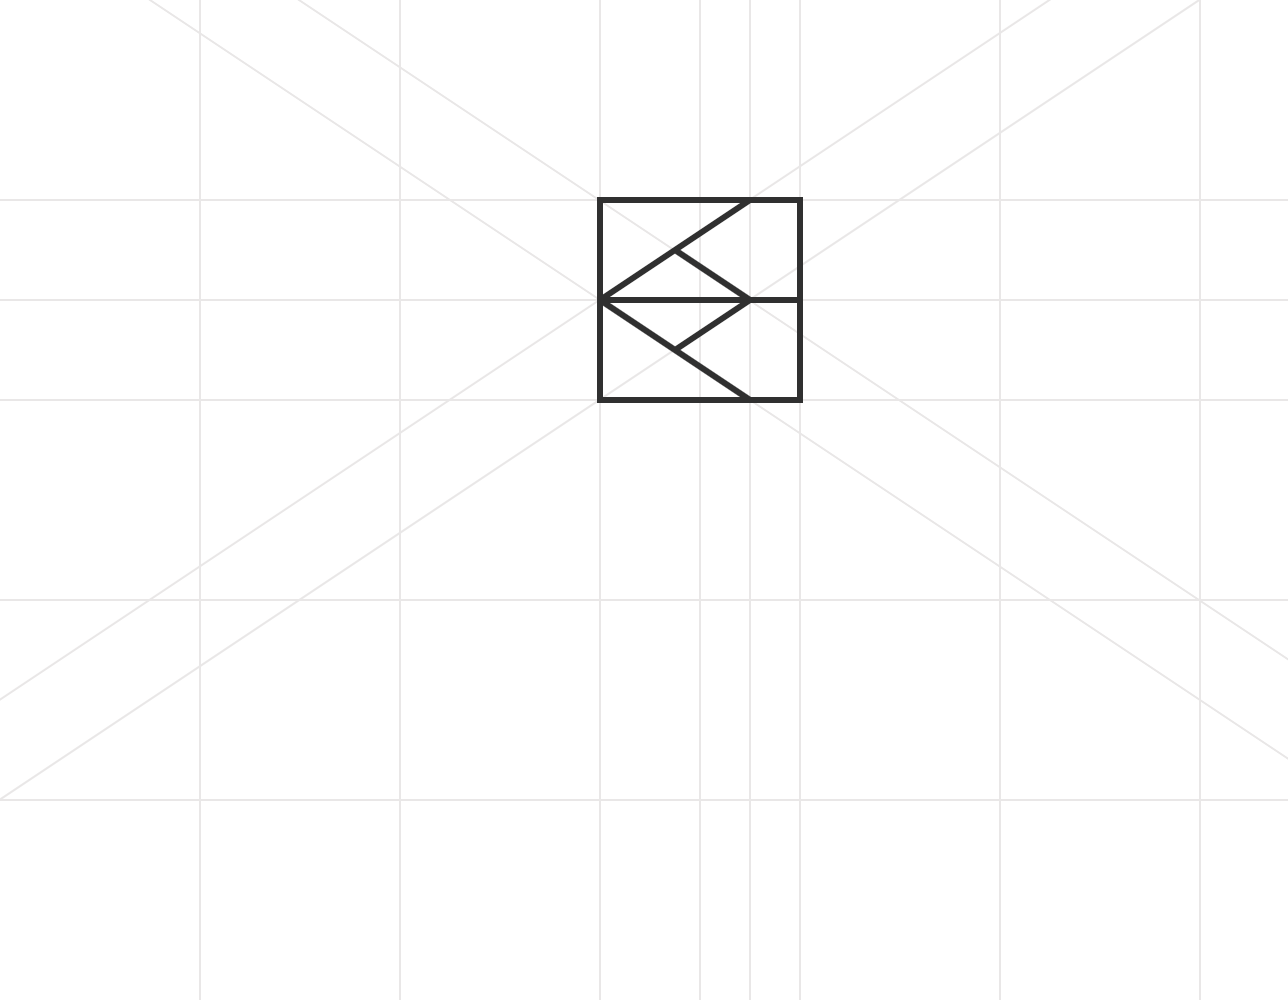
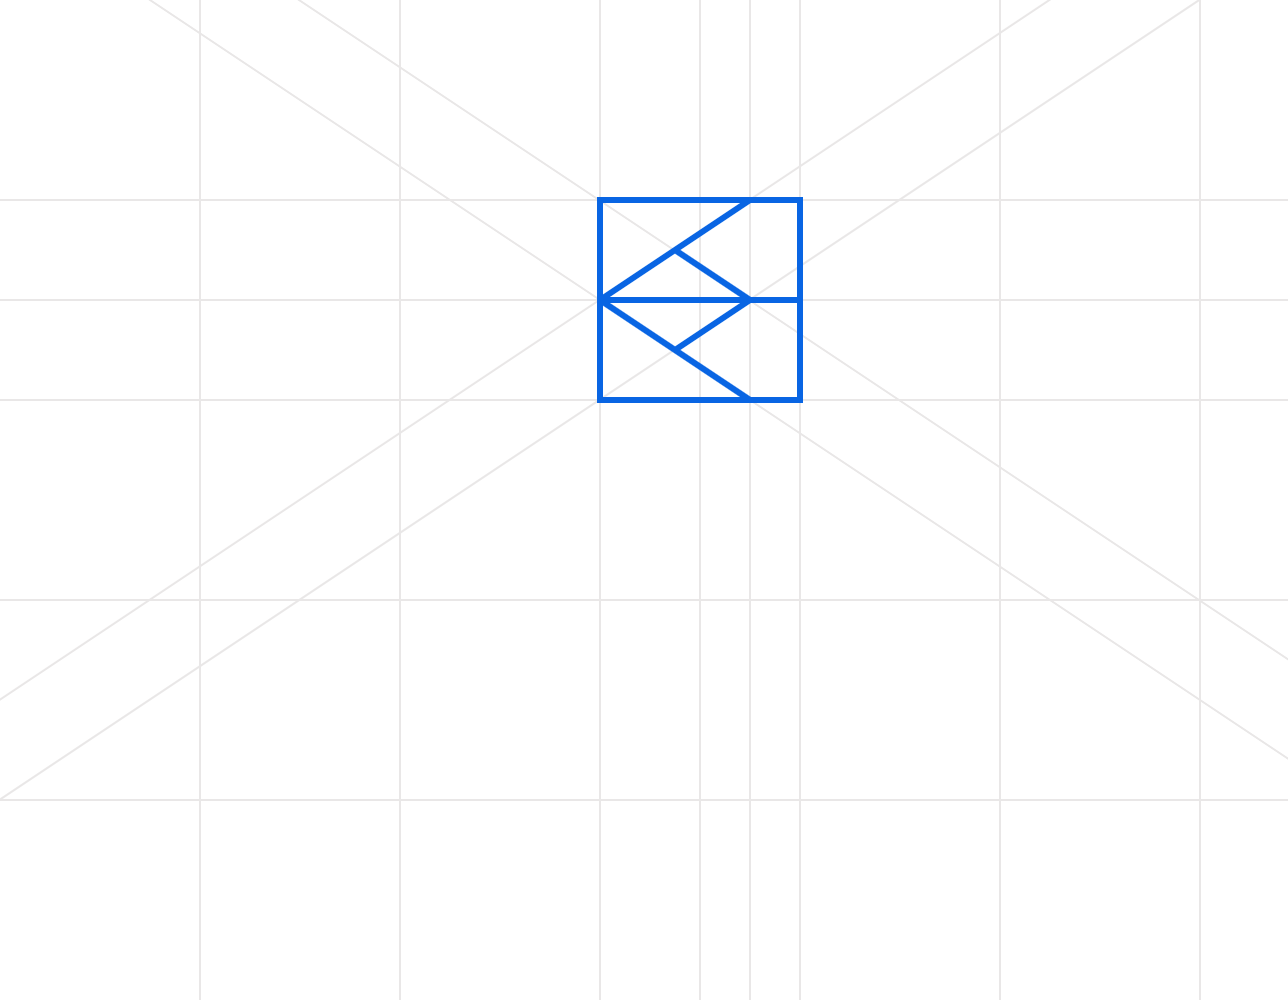
brand img changes

Changed region(s): [[0.4658, 0.186, 0.6211, 0.403]]

diff --git a/about.html b/about.html
@@ -214,26 +214,45 @@
                 <div id="recommenders">
                     <div class="row" id="optionThumbs">
                         <div class="column" id="thumb1">
-                          <img src="img/aboutMe/sabrina.jpg" alt="Quote 1" onclick="showQuote('quote1', 'thumb1');">
+                            <img src="img/aboutMe/sanjana.jpg" alt="Quote 1" onclick="showQuote('quote1', 'thumb1');">
                         </div>
                         <div class="column" id="thumb2">
-                          <img src="img/aboutMe/brendan.jpg" alt="Quote 2" onclick="showQuote('quote2', 'thumb2');">
+                          <img src="img/aboutMe/sabrina.jpg" alt="Quote 2" onclick="showQuote('quote2', 'thumb2');">
                         </div>
                         <div class="column" id="thumb3">
-                            <img src="img/aboutMe/jingzhi.jpg" alt="Quote 3" onclick="showQuote('quote3', 'thumb3');">
-                          </div>
-                        <div class="column" id="thumb4">
-                            <img src="img/aboutMe/ivy.jpg" alt="Quote 4" onclick="showQuote('quote4', 'thumb4');">
+                          <img src="img/aboutMe/brendan.jpg" alt="Quote 3" onclick="showQuote('quote3', 'thumb3');">
                         </div>
+                        <div class="column" id="thumb4">
+                            <img src="img/aboutMe/jingzhi.jpg" alt="Quote 4" onclick="showQuote('quote4', 'thumb4');">
+                          </div>
                         <div class="column" id="thumb5">
-                            <img src="img/aboutMe/sia.jpg" alt="Quote 5" onclick="showQuote('quote5', 'thumb5');">
+                            <img src="img/aboutMe/ivy.jpg" alt="Quote 5" onclick="showQuote('quote5', 'thumb5');">
+                        </div>
+                        <div class="column" id="thumb6">
+                            <img src="img/aboutMe/sia.jpg" alt="Quote 6" onclick="showQuote('quote6', 'thumb6');">
                         </div>
                     </div>
                 </div>
                 
                 <div class="quoteContainer">
-
                     <div id="quote1" class="quoteCard">
+                        <img src="img/aboutMe/quote.svg" class="quoteIcon">
+                        <p>
+                            I have had the pleasure of working with Eddy for the past five months, during which he has proven to be an exceptional Design Manager. His leadership skills are evident in how effectively he has guided the team through complex design implementations, ensuring seamless communication across product managers, engineers, developers, stakeholders, and designers. Eddy’s ability to deliver high-fidelity designs, coupled with his knack for problem-solving, has been instrumental in driving our projects to success.
+                        </p>
+                        <p>
+                            Eddy’s dedication to his work, attention to detail, and ability to manage multiple tasks simultaneously have made him a reliable and valued team member. His collaborative approach fosters innovation and teamwork, creating a productive environment that benefits everyone involved. I highly recommend Eddy for any leadership role in design, as his consistent performance and leadership qualities have made a significant impact on our team.
+                        </p>
+                        <div class="whoSaid">
+                        <img src="img/aboutMe/sanjana.jpg">
+                        <div class="attributed">
+                            <p>Sanjana Pachipulusu</p>
+                            <p>UX Designer</p>
+                            <p>Teammate @ KeelWorks Foundation</p>
+                        </div>
+                        </div>
+                    </div>
+                    <div id="quote2" class="quoteCard">
                         <img src="img/aboutMe/quote.svg" class="quoteIcon">
                         <p>
                             It’s not often that I get to work with someone whose attention to detail is as remarkable as Eddy’s. His eagle-eyed vision significantly enhanced the intricacies and cohesiveness of the project he leads, which I have the pleasure of being part of. Eddy is not only exceptionally skilled at refining the finer points of design and team dynamics but also at approaching projects holistically, ensuring every element aligns with the overall vision. He excelled in leading design reviews, offering actionable feedback, and was always open to collaboration when facing challenges.
@@ -246,12 +265,12 @@
                         <div class="attributed">
                             <p>Sabrina Settle</p>
                             <p>UX Designer</p>
-                            <p>Teammate @ KeelWorks</p>
+                            <p>Teammate @ KeelWorks Foundation</p>
                         </div>
                         </div>
                     </div>
 
-                    <div id="quote2" class="quoteCard">
+                    <div id="quote3" class="quoteCard">
                         <img src="img/aboutMe/quote.svg" class="quoteIcon">
                         <p>Eddy was an exceptional design intern I had the privilege of working with over the summer at West Monroe. His strong design-thinking mindset was evident in all the projects he tackled. Eddy was able to translate concepts into Figma wireframes and develop detailed user personas, showcasing his creativity and strategic approach to design. Beyond his technical expertise, Eddy proved to be a reliable and collaborative teammate, consistently contributing to the success of our projects. His dedication and talent make him an invaluable asset to any design team. I highly recommend Eddy for his great contributions and positive impact on our team.</p>
                         <div class="whoSaid">
@@ -264,7 +283,7 @@
                         </div>
                     </div>
 
-                    <div id="quote3" class="quoteCard">
+                    <div id="quote4" class="quoteCard">
                         <img src="img/aboutMe/quote.svg" class="quoteIcon">
                         <p>
                         I directly worked with Eddy on several projects. In addition to great design skills, Eddy also has good communication skills in terms of articulating design decisions and collaborating with other roles in the team. Over a wide range of projects, Eddy has met every challenge to propose ideas and deliver excellent designs.
@@ -279,7 +298,7 @@
                         </div>
                     </div>
 
-                    <div id="quote4" class="quoteCard">
+                    <div id="quote5" class="quoteCard">
                         <img src="img/aboutMe/quote.svg" class="quoteIcon">
                         <p>
                             Eddy has been an essential partner while we were interns in Ziggurat. He was amazing at time-management and team working. He always make 100% sure that everything worked correctly and proposed great solutions for problems. He always makes time to help others no matter how busy is and is someone I can always depend on.
@@ -293,7 +312,7 @@
                         </div>
                         </div>
                     </div>
-                    <div id="quote5" class="quoteCard">
+                    <div id="quote6" class="quoteCard">
                         <img src="img/aboutMe/quote.svg" class="quoteIcon">
                         <p>
                             Eddy was a rockstar during his UI/UX internship at Ziggurat! His impeccable precision and work quality and ethics are superlative. I highly recommend him to any future prospective employer and colleagues to work with. 

diff --git a/storalink.html b/storalink.html
@@ -164,9 +164,9 @@
                 <div>
                     <h2>Timeline</h2>
                     <p>
-                        May 2023 – Jun 2024
+                        May 2023 – Jul 2024
                         <br/>
-                        <span class="timelineSubtitle">(1 Year 2 Months)</span>
+                        <span class="timelineSubtitle">(1 Year 3 Months)</span>
                     </p>
                 </div>
                 <div>
